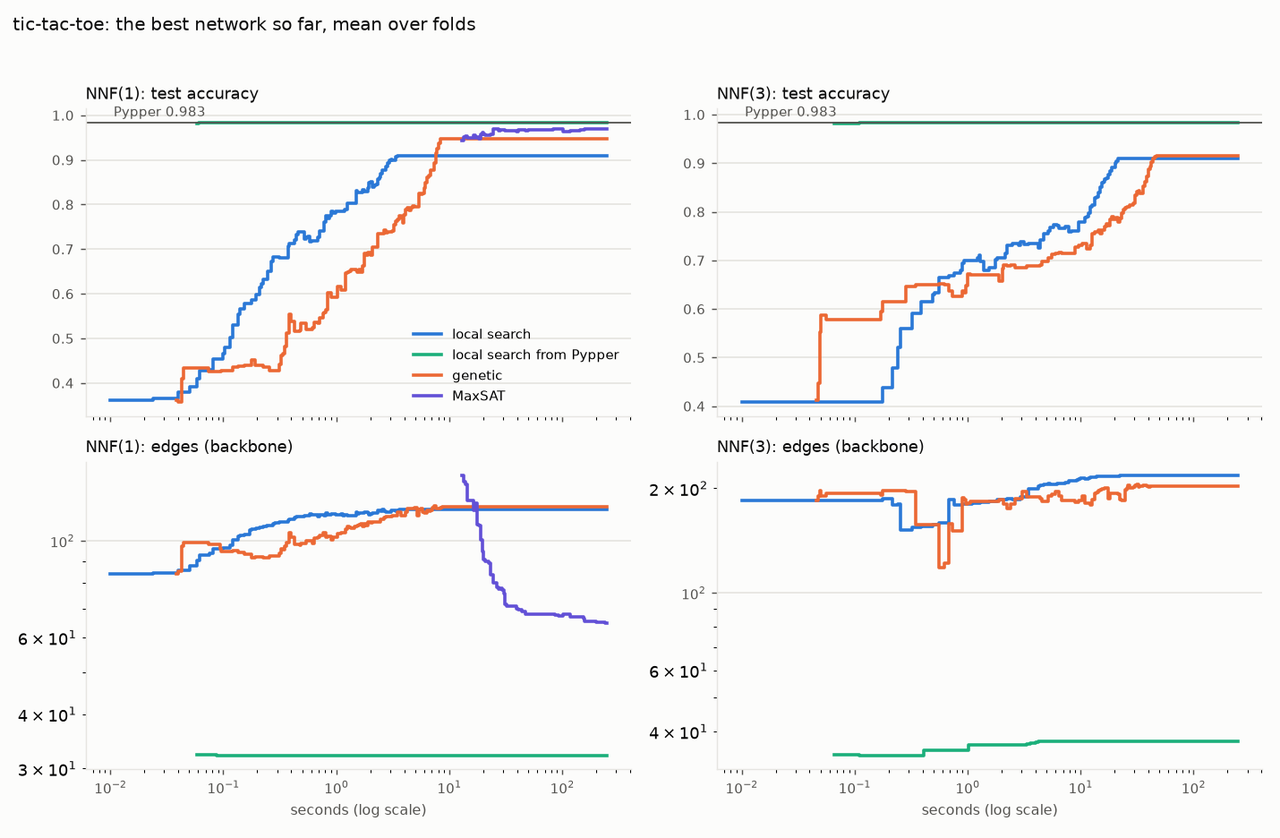
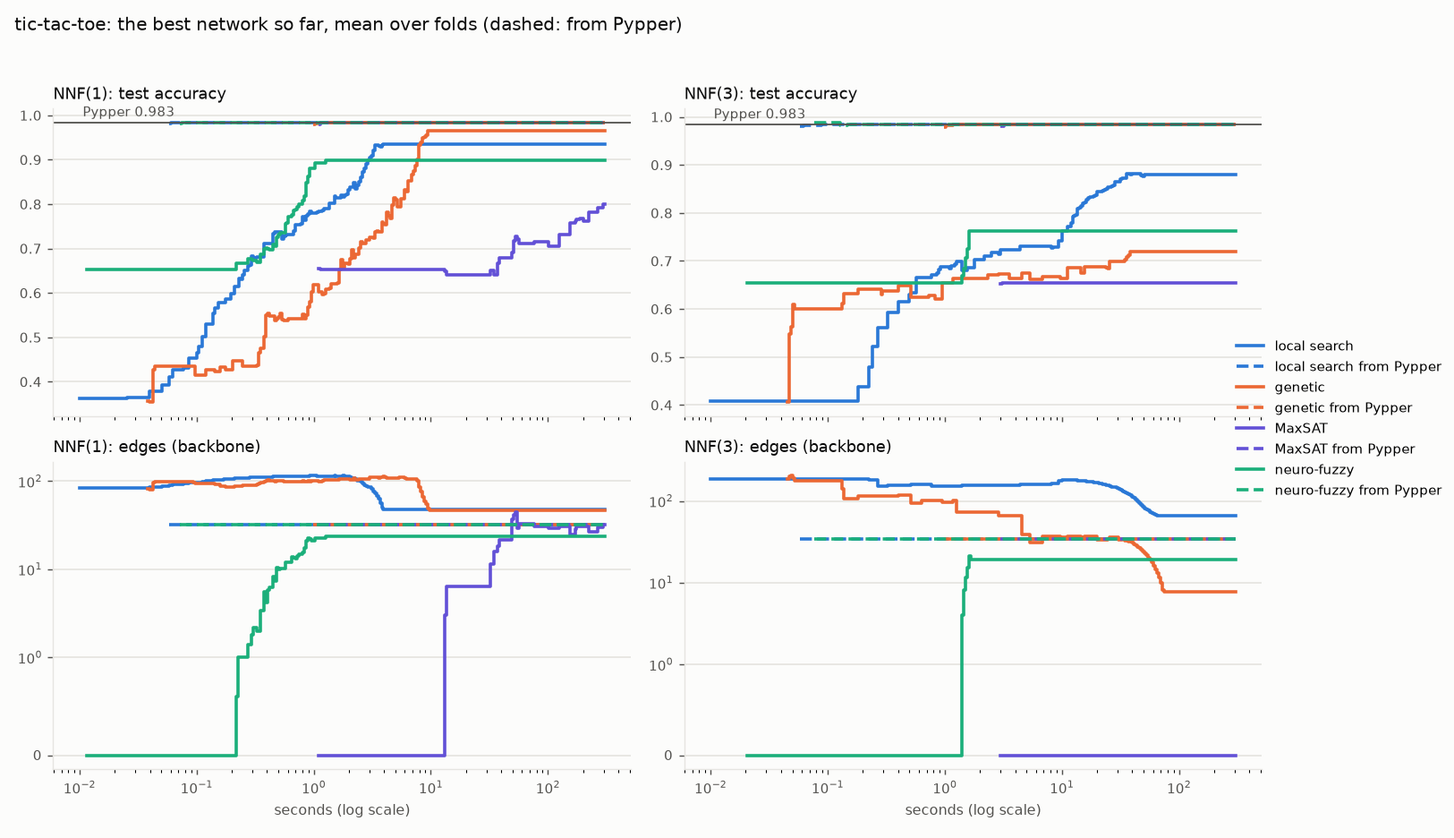
Deep rule networks: results of the full run; time-out (k/n) and --report-only
The report of the full run on 6841058 (parts 1-3) with its plots; the
plots of the old part 2 datasets are gone. A pair that timed out on some
folds while others finished reads "time-out (k/n)": k of the n folds
that ran failed (the counts from the cache, without stop_on_timeout);
the note says how many were skipped. --report-only writes the report and
plots from the cache, fitting nothing.

diff --git a/demos/deep_rule_networks.py b/demos/deep_rule_networks.py
@@ -41,6 +41,8 @@ Run: `python demos/deep_rule_networks.py` with no arguments is the
 short time limits); `--full` runs everything (a few hours with
 ``--n-jobs 10``) and writes ``deep_rule_networks_report.md`` (plots in
 ``deep_rule_networks_plots/``). Needs the `experiments` and `sat` extras.
+``--report-only`` fits nothing: it writes the report and plots from what
+the cache holds (with ``--full``, of the full run).
 """
 
 from __future__ import annotations
@@ -226,6 +228,24 @@ NAME = "deep_rule_networks"
 PLOTS_DIR = os.path.join(HERE, f"{NAME}_plots")
 CACHE_DIR = os.path.join(HERE, f"_{NAME}_cache")
 N_JOBS = "1"
+#: `--report-only`: the tables from the cache, nothing fitted
+CACHED_ONLY = False
+#: (dataset, learner) -> (failed folds, folds run): what really ran, for the report -- with
+#: `stop_on_timeout` a timed-out pair's finished folds also read as time-outs
+RAN: Dict[Tuple[str, str], Tuple[int, int]] = {}
+
+
+def _run_cv(learners, datasets, **kw) -> pd.DataFrame:
+    """`run_cv` (only from the cache with `CACHED_ONLY`), noting in `RAN`
+    how many folds of each (dataset, learner) ran and how many of them
+    failed."""
+    res = run_cv(learners, datasets, cached_only=CACHED_ONLY, **kw)
+    raw = run_cv(learners, datasets, cached_only=True, stop_on_timeout=False,
+                 **{k: v for k, v in kw.items() if k not in ("n_jobs", "measure_fn")})
+    if len(raw):
+        for (ds, learner), rows in raw.groupby(["dataset", "learner"]):
+            RAN[(ds, learner)] = (int(rows["error"].notna().sum()), len(rows))
+    return res
 
 
 def _n_jobs():
@@ -237,7 +257,7 @@ def part1(quick: bool) -> pd.DataFrame:
     datasets = cat.select(names=QUICK_ARTIFICIAL) if quick else cat.select(tags="artificial")
     names = (["Pypper"] + [f"SAT {a}" for a in NNF] + ["MaxSAT NNF(1)"] + [f"local search {a}" for a in NNF]
              + [f"genetic {a}" for a in NNF] + [f"neuro-fuzzy {a}" for a in NNF])
-    return run_cv([Variant(n, quick) for n in names], datasets,
+    return _run_cv([Variant(n, quick) for n in names], datasets,
                   n_folds=QUICK_SEIP_FOLDS if quick else SEIP_FOLDS, fit_timeout=FIT_TIMEOUT,
                   random_state=RANDOM_STATE, cache_dir=CACHE_DIR, n_jobs=_n_jobs())
 
@@ -256,9 +276,9 @@ def part2(quick: bool) -> pd.DataFrame:
                   random_state=RANDOM_STATE, cache_dir=CACHE_DIR, measure_fn=trace_curve, n_jobs=_n_jobs())
     full = [d for d in datasets if d.name not in NO_MAXSAT]
     small = [d for d in datasets if d.name in NO_MAXSAT]
-    parts = [run_cv([Variant(n, quick) for n in names], full, **common)] if full else []
+    parts = [_run_cv([Variant(n, quick) for n in names], full, **common)] if full else []
     if small:
-        parts.append(run_cv([Variant(n, quick) for n in without], small, **common))
+        parts.append(_run_cv([Variant(n, quick) for n in without], small, **common))
     return pd.concat(parts, ignore_index=True)
 
 
@@ -268,9 +288,9 @@ def part3(quick: bool) -> Tuple[pd.DataFrame, pd.DataFrame]:
     names = ["Pypper"] + [f"krk {learner}" for learner in KRK_LEARNERS]
     common = dict(n_folds=QUICK_TRACE_FOLDS if quick else TRACE_FOLDS, fit_timeout=FIT_TIMEOUT,
                   random_state=RANDOM_STATE, cache_dir=CACHE_DIR, n_jobs=_n_jobs())
-    res = run_cv([Variant(n, quick) for n in names], [krk], measure_fn=trace_curve, **common)
+    res = _run_cv([Variant(n, quick) for n in names], [krk], measure_fn=trace_curve, **common)
     relational = KRKIllegal(krk.n, krk.random_state, relations=True)
-    upper = run_cv([Variant("Pypper", quick)], [relational], **common)
+    upper = _run_cv([Variant("Pypper", quick)], [relational], **common)
     return res, upper
 
 
@@ -280,8 +300,14 @@ COLORS = {"local search": "#2a78d6", "genetic": "#eb6834", "MaxSAT": "#6250d6", 
 INK, INK2, GRID, SURF = "#0b0b0b", "#52514e", "#e6e5e1", "#fcfcfb"
 
 
-def _pct(v) -> str:
-    return "time-out" if v is None or (isinstance(v, float) and np.isnan(v)) else f"{100 * v:.2f}"
+def _pct(v, dataset: str = None, learner: str = None) -> str:
+    """An accuracy in %; a failure as ``time-out``, or ``time-out (k/n)``
+    when only k of the n folds that ran failed (the others finished: with
+    parallel fits, those already running when a fold timed out)."""
+    if not (v is None or (isinstance(v, float) and np.isnan(v))):
+        return f"{100 * v:.2f}"
+    failed, ran = RAN.get((dataset, learner), (0, 0))
+    return f"time-out ({failed}/{ran})" if 0 < failed < ran else "time-out"
 
 
 def _accuracy_by_dataset(res: pd.DataFrame, names: List[str]) -> pd.DataFrame:
@@ -307,10 +333,14 @@ def _failure_note(res: pd.DataFrame, rename=lambda n: n) -> List[str]:
     folds = res.groupby(["dataset", "learner"]).size()
     by_learner: Dict[str, List[str]] = {}
     for (ds, learner), k in failed.items():
-        by_learner.setdefault(rename(learner), []).append(f"{ds} ({k}/{folds[(ds, learner)]})")
-    return ["Time-outs (failed folds / folds; the fit cap of " + f"{FIT_TIMEOUT:.0f} s, or DeepSAT "
-            "finding no network within its own limit): "
-            + "; ".join(f"{n}: {', '.join(sorted(v))}" for n, v in sorted(by_learner.items())) + ".\n"]
+        bad, ran = RAN.get((ds, learner), (k, folds[(ds, learner)]))
+        skipped = folds[(ds, learner)] - ran
+        by_learner.setdefault(rename(learner), []).append(
+            f"{ds} ({bad}/{ran}" + (f", {skipped} skipped" if skipped else "") + ")")
+    return ["Time-outs (failed folds / folds run; the fit cap of " + f"{FIT_TIMEOUT:.0f} s, or DeepSAT "
+            "finding no network within its own limit; after a time-out the folds not yet started are "
+            "skipped): " + "; ".join(f"{n}: {', '.join(sorted(v))}" for n, v in sorted(by_learner.items()))
+            + ".\n"]
 
 
 def _part1_section(res: pd.DataFrame, quick: bool) -> List[str]:
@@ -336,12 +366,12 @@ def _part1_section(res: pd.DataFrame, quick: bool) -> List[str]:
         for name, who in cols:
             v = acc.loc[ds, name] if who == "ours" else paper.loc[seed, name]
             v = None if v is None or (isinstance(v, float) and np.isnan(v)) else float(v)
-            cells.append(_pct(v))
+            cells.append(_pct(v, ds, name) if who == "ours" else _pct(v))
             if v is not None:
                 sums.setdefault(f"{name}|{who}", []).append(v)
         for name in ("MaxSAT NNF(1)", "Pypper"):
             v = acc.loc[ds, name]
-            cells.append(_pct(v))
+            cells.append(_pct(v, ds, name))
             if not np.isnan(v):
                 sums.setdefault(f"{name}|ours", []).append(v)
         L.append(f"| {ds} | " + " | ".join(cells) + " |")
@@ -458,7 +488,7 @@ def _part2_section(res: pd.DataFrame, quick: bool) -> List[str]:
           "| dataset | " + " | ".join(n.replace("traced ", "") for n in names) + " |",
           "|---|" + "--:|" * len(names)]
     for ds in acc.index:
-        L.append(f"| {ds} | " + " | ".join(f"{_pct(acc.loc[ds, n])} ({times.loc[ds, n]:.0f} s)" for n in names)
+        L.append(f"| {ds} | " + " | ".join(f"{_pct(acc.loc[ds, n], ds, n)} ({times.loc[ds, n]:.0f} s)" for n in names)
                  + " |")
     if NO_MAXSAT and not quick:
         L.append(f"MaxSAT is not run on {', '.join(NO_MAXSAT)}: its formula would have tens of millions of "
@@ -489,7 +519,7 @@ def _part3_section(res: pd.DataFrame, upper: pd.DataFrame, quick: bool) -> List[
           "| learner | accuracy | edges | seconds |", "|---|--:|--:|--:|"]
     for n in names:
         e = "" if n == "Pypper" or np.isnan(edges.get(n, np.nan)) else f"{edges[n]:.0f}"
-        L.append(f"| {n.replace('krk ', '')} | {_pct(acc.loc[krk, n]) if krk in acc.index else '-'} | {e} | "
+        L.append(f"| {n.replace('krk ', '')} | {_pct(acc.loc[krk, n], krk, n) if krk in acc.index else '-'} | {e} | "
                  f"{times.loc[krk, n]:.0f} |" if krk in times.index else f"| {n} | - | | |")
     L.append(f"| Pypper with relations | {_pct(bound)} | | |")
     return L + [""] + _failure_note(res, lambda n: n.replace("krk ", ""))
@@ -524,7 +554,9 @@ and from Pypper, lambda = {LAMBDA:g}, each with {KRK_SECONDS} s (`max_seconds`, 
 generations unbounded). No MaxSAT: the formula would have millions of variables.
 
 Each fit is capped at {FIT_TIMEOUT:.0f} s; a time-out drops the learner's whole
-cross-validation on that dataset. Times are wall-clock.
+cross-validation on that dataset (the folds not yet started are skipped; `time-out (k/n)`:
+k of the n folds that ran failed, the others -- already running -- finished). Times are
+wall-clock.
 """
 
 
@@ -556,6 +588,9 @@ if __name__ == "__main__":
     parser.add_argument("--n-jobs", default="1",
                         help="fits to run at the same time (default 1); capped at the available cores "
                              "unless given as 'N!'")
+    parser.add_argument("--report-only", action="store_true",
+                        help="fit nothing: the report and plots from what the cache holds")
     args = parser.parse_args()
     N_JOBS = args.n_jobs
+    CACHED_ONLY = args.report_only
     main(quick=not args.full)

diff --git a/demos/deep_rule_networks_report.md b/demos/deep_rule_networks_report.md
@@ -7,74 +7,113 @@ al. (catalog tag `artificial`; all 1,024 combinations of ten Boolean features, l
 random deep NNF), stratified 10-fold cross-validation. The Boolean columns become
 `x` and `not x`, the features and negations the SAT paper's networks take. Architectures as
 in the paper: NNF(1) `[20]`, NNF(3) `[32, 8, 2]`, NNF(5) `[32, 16, 8, 4, 2]`,
-first layer AND, output OR. Learners: `DeepSAT` (plain SAT, an exact fit; Glucose 4),
+first layer AND, output OR, the output learning the formula's class (`target_class=True`,
+as the papers' networks do). Learners: `DeepSAT` (plain SAT, an exact fit; Glucose 4),
 `DeepLocalSearch` (Beck's stochastic hill climbing, consistent moves, random start),
+`DeepGenetic` (the memetic algorithm, node-wise crossover, random start), `DeepNeuroFuzzy`
+(gradient descent on the fuzzy relaxation, random binarization, random start),
 `DeepSAT(minimize="weights")` on NNF(1) with 60 s (the smallest exact fit found
 by then), Pypper.
 
-Part 2: tic-tac-toe, monks-problems-2, car-binary, artificial-nnf-24, kr-vs-kp, stratified 5-fold. NNF(1) and NNF(3);
-local search (random start, and started from Pypper's rules, `RuleSetInit(Pypper())`),
-the genetic algorithm (`DeepGenetic`, node-wise crossover), MaxSAT (`DeepSAT(minimize=
-"weights")`, 300 s), all with `trace=True`; Pypper as the reference.
+Part 2: tic-tac-toe, kr-vs-kp, vote, mushroom, breast-cancer, SPECT, parity-4-of-10, stratified
+5-fold (parity-4-of-10: the parity of four of ten Boolean features, all 1,024 rows).
+NNF(1) and NNF(3); local search, the genetic algorithm, MaxSAT (`DeepSAT(minimize="weights")`
+with soft examples, 300 s) and `DeepNeuroFuzzy`, each from a random start and
+from Pypper's rules (`RuleSetInit(Pypper())`), all minimizing the training errors plus
+lambda = 1 per edge (`size_penalty`), with `trace=True`; Pypper as the reference.
+Local search, the genetic algorithm and `DeepNeuroFuzzy` stop after 900 s at the
+latest (`max_seconds`), with their best network so far.
+
+Part 3: KRK illegality, 1000 positions (coordinates only), stratified 5-fold,
+network `[128, 16, 4]`; local search, the genetic algorithm and `DeepNeuroFuzzy`, random
+and from Pypper, lambda = 1, each with 1500 s (`max_seconds`, epochs and
+generations unbounded). No MaxSAT: the formula would have millions of variables.
 
 Each fit is capped at 1800 s; a time-out drops the learner's whole
-cross-validation on that dataset. Times are wall-clock.
+cross-validation on that dataset (the folds not yet started are skipped; `time-out (k/n)`:
+k of the n folds that ran failed, the others -- already running -- finished). Times are
+wall-clock.
 
 
 ## Part 1: the SAT paper's artificial datasets
 
 Accuracy (%) per dataset, ours next to the paper's Table 1 (its SAT and stochastic hill climbing, SHS). Our folds are not the paper's (both stratified 10-fold), so single datasets can differ by chance; the means are the comparison.
 
-| dataset | SAT NNF(1) (ours) | SAT NNF(1) (paper) | local search NNF(1) (ours) | SHS NNF(1) (paper) | SAT NNF(3) (ours) | SAT NNF(3) (paper) | local search NNF(3) (ours) | SHS NNF(3) (paper) | SAT NNF(5) (ours) | SAT NNF(5) (paper) | local search NNF(5) (ours) | SHS NNF(5) (paper) | MaxSAT NNF(1) | Pypper |
-|---|--:|--:|--:|--:|--:|--:|--:|--:|--:|--:|--:|--:|--:|--:|
-| artificial-nnf-107 | time-out | 99.51 | 70.12 | 86.43 | time-out | 97.95 | 93.75 | 87.30 | time-out | 97.55 | 89.74 | 89.65 | time-out | 93.65 |
-| artificial-nnf-112 | 97.65 | 98.63 | 52.23 | 91.89 | 97.66 | 98.34 | 83.18 | 92.48 | 97.66 | 98.24 | 94.04 | 93.46 | 99.02 | 96.09 |
-| artificial-nnf-118 | 98.24 | 99.12 | 71.49 | 94.34 | 97.17 | 98.24 | 95.31 | 94.14 | time-out | 99.12 | 95.60 | 96.88 | 99.61 | 97.26 |
-| artificial-nnf-16 | 98.92 | 99.02 | 60.28 | 96.29 | 98.92 | 98.04 | 85.24 | 97.07 | 98.92 | 97.65 | 97.46 | 96.39 | 99.12 | 98.24 |
-| artificial-nnf-19 | 100.00 | 100.00 | 71.39 | 97.46 | 100.00 | 100.00 | 99.80 | 99.02 | 100.00 | 100.00 | 99.22 | 100.00 | 100.00 | 100.00 |
-| artificial-nnf-24 | 98.54 | 99.32 | 66.21 | 91.60 | 99.61 | 98.83 | 91.12 | 90.43 | 99.61 | 98.83 | 92.18 | 90.53 | 99.81 | 95.02 |
-| artificial-nnf-36 | time-out | time-out | 64.27 | 90.43 | time-out | 97.75 | 93.17 | 92.09 | time-out | 96.48 | 93.85 | 88.28 | time-out | 93.27 |
-| artificial-nnf-44 | 98.15 | 99.02 | 58.70 | 93.26 | 98.34 | 97.85 | 84.77 | 95.51 | 98.34 | 98.25 | 96.10 | 96.29 | 99.12 | 97.95 |
-| artificial-nnf-5 | 98.04 | 99.80 | 76.59 | 95.31 | 98.34 | 98.73 | 98.24 | 98.63 | 98.53 | 98.83 | 98.73 | 95.80 | 100.00 | 98.63 |
-| artificial-nnf-53 | 100.00 | 99.71 | 67.17 | 97.75 | 100.00 | 98.92 | 98.83 | 98.05 | 100.00 | 98.73 | 98.53 | 98.05 | 100.00 | 99.02 |
-| artificial-nnf-57 | 99.02 | 99.61 | 62.01 | 96.39 | 98.92 | 99.32 | 90.07 | 97.36 | 99.02 | 99.61 | 98.24 | 98.24 | 99.71 | 99.61 |
-| artificial-nnf-60 | 98.24 | 99.22 | 57.54 | 92.09 | 97.95 | 98.24 | 95.50 | 94.53 | 98.14 | 97.36 | 95.80 | 94.43 | 100.00 | 97.95 |
-| artificial-nnf-65 | 98.92 | 99.81 | 69.53 | 94.14 | 98.92 | 99.80 | 95.60 | 96.88 | 98.92 | 99.32 | 95.41 | 98.54 | 100.00 | 99.80 |
-| artificial-nnf-68 | time-out | 99.12 | 74.70 | 96.19 | 99.12 | 97.17 | 92.38 | 94.43 | time-out | 98.05 | 91.89 | 92.48 | time-out | 92.97 |
-| artificial-nnf-69 | 98.34 | 98.24 | 61.33 | 91.99 | 98.24 | 97.27 | 96.68 | 96.58 | time-out | 97.76 | 96.39 | 95.51 | 98.73 | 97.08 |
-| artificial-nnf-70 | time-out | 99.12 | 70.60 | 92.29 | 98.53 | 97.66 | 89.45 | 90.62 | time-out | 98.15 | 90.72 | 90.14 | time-out | 91.50 |
-| artificial-nnf-81 | time-out | 99.51 | 65.23 | 88.57 | 97.26 | 97.26 | 93.84 | 91.31 | time-out | 98.83 | 93.94 | 90.04 | time-out | 95.40 |
-| artificial-nnf-82 | 100.00 | 99.90 | 64.25 | 97.17 | 100.00 | 99.90 | 96.47 | 99.80 | 100.00 | 99.90 | 99.90 | 99.41 | 100.00 | 100.00 |
-| artificial-nnf-85 | 100.00 | 100.00 | 75.49 | 97.36 | 100.00 | 99.90 | 99.51 | 99.80 | 100.00 | 99.71 | 99.80 | 100.00 | 100.00 | 100.00 |
-| artificial-nnf-89 | time-out | 99.80 | 65.54 | 96.29 | 98.83 | 99.22 | 90.63 | 94.34 | time-out | 99.02 | 91.60 | 89.26 | time-out | 91.01 |
-| **mean** | 98.86 | 99.39 | 66.23 | 93.86 | 98.77 | 98.52 | 93.18 | 95.02 | 99.10 | 98.57 | 95.46 | 94.67 | 99.65 | 96.72 |
+| dataset | SAT NNF(1) (ours) | SAT NNF(1) (paper) | local search NNF(1) (ours) | SHS NNF(1) (paper) | genetic NNF(1) (ours) | neuro-fuzzy NNF(1) (ours) | SAT NNF(3) (ours) | SAT NNF(3) (paper) | local search NNF(3) (ours) | SHS NNF(3) (paper) | genetic NNF(3) (ours) | neuro-fuzzy NNF(3) (ours) | SAT NNF(5) (ours) | SAT NNF(5) (paper) | local search NNF(5) (ours) | SHS NNF(5) (paper) | genetic NNF(5) (ours) | neuro-fuzzy NNF(5) (ours) | MaxSAT NNF(1) | Pypper |
+|---|--:|--:|--:|--:|--:|--:|--:|--:|--:|--:|--:|--:|--:|--:|--:|--:|--:|--:|--:|--:|
+| artificial-nnf-107 | 99.02 | 99.51 | 74.06 | 86.43 | 92.58 | 92.00 | time-out (1/10) | 97.95 | 93.45 | 87.30 | 92.49 | 99.12 | time-out (4/10) | 97.55 | 92.87 | 89.65 | 94.05 | 93.05 | 99.80 | 93.65 |
+| artificial-nnf-112 | 98.53 | 98.63 | 94.14 | 91.89 | 93.85 | 93.95 | time-out (1/10) | 98.34 | 95.12 | 92.48 | 93.36 | 98.34 | time-out (5/10) | 98.24 | 93.65 | 93.46 | 94.34 | 87.90 | 99.71 | 96.09 |
+| artificial-nnf-118 | 98.24 | 99.12 | 95.99 | 94.34 | 96.68 | 98.14 | 98.34 | 98.24 | 97.27 | 94.14 | 98.24 | 98.73 | 98.34 | 99.12 | 97.07 | 96.88 | 97.95 | 94.22 | 99.51 | 97.26 |
+| artificial-nnf-16 | 98.34 | 99.02 | 97.26 | 96.29 | 97.75 | 94.91 | 99.02 | 98.04 | 97.27 | 97.07 | 97.66 | 99.12 | time-out (1/10) | 97.65 | 98.34 | 96.39 | 96.78 | 93.73 | 99.61 | 98.24 |
+| artificial-nnf-19 | 99.80 | 100.00 | 66.11 | 97.46 | 98.73 | 100.00 | 99.71 | 100.00 | 99.90 | 99.02 | 100.00 | 100.00 | 99.71 | 100.00 | 99.61 | 100.00 | 100.00 | 98.06 | 100.00 | 100.00 |
+| artificial-nnf-24 | 98.53 | 99.32 | 87.31 | 91.60 | 94.92 | 95.79 | 98.63 | 98.83 | 95.12 | 90.43 | 92.78 | 99.22 | 98.63 | 98.83 | 94.73 | 90.53 | 93.35 | 94.16 | 99.81 | 95.02 |
+| artificial-nnf-36 | time-out | time-out | 79.87 | 90.43 | 93.36 | 94.23 | time-out (3/4) | 97.75 | 92.38 | 92.09 | 92.77 | 97.46 | time-out | 96.48 | 93.07 | 88.28 | 91.79 | 95.12 | time-out (8/10) | 93.27 |
+| artificial-nnf-44 | 98.43 | 99.02 | 95.03 | 93.26 | 95.81 | 86.68 | 98.44 | 97.85 | 96.00 | 95.51 | 96.39 | 99.12 | time-out (3/10) | 98.25 | 96.39 | 96.29 | 97.17 | 90.05 | 99.61 | 97.95 |
+| artificial-nnf-5 | 98.04 | 99.80 | 76.59 | 95.31 | 96.78 | 99.22 | 98.34 | 98.73 | 98.24 | 98.63 | 97.56 | 100.00 | 98.53 | 98.83 | 98.73 | 95.80 | 97.75 | 94.91 | 100.00 | 98.63 |
+| artificial-nnf-53 | 99.41 | 99.71 | 78.91 | 97.75 | 98.53 | 98.05 | 99.41 | 98.92 | 98.93 | 98.05 | 98.05 | 98.05 | 99.41 | 98.73 | 97.75 | 98.05 | 98.14 | 90.59 | 100.00 | 99.02 |
+| artificial-nnf-57 | 99.61 | 99.61 | 95.53 | 96.39 | 98.44 | 97.18 | 99.61 | 99.32 | 99.41 | 97.36 | 99.41 | 99.71 | 99.61 | 99.61 | 99.41 | 98.24 | 99.51 | 94.95 | 99.71 | 99.61 |
+| artificial-nnf-60 | 99.22 | 99.22 | 93.85 | 92.09 | 95.80 | 93.55 | 98.83 | 98.24 | 95.41 | 94.53 | 94.43 | 98.44 | 98.83 | 97.36 | 95.31 | 94.43 | 94.34 | 90.24 | 99.42 | 97.95 |
+| artificial-nnf-65 | 99.41 | 99.81 | 73.34 | 94.14 | 97.36 | 100.00 | 98.73 | 99.80 | 97.95 | 96.88 | 98.25 | 100.00 | 98.73 | 99.32 | 97.27 | 98.54 | 98.54 | 99.51 | 100.00 | 99.80 |
+| artificial-nnf-68 | 99.32 | 99.12 | 80.75 | 96.19 | 97.07 | 93.86 | 98.24 | 97.17 | 96.78 | 94.43 | 97.17 | 97.17 | 98.24 | 98.05 | 95.70 | 92.48 | 96.78 | 97.36 | 99.41 | 92.97 |
+| artificial-nnf-69 | 97.85 | 98.24 | 75.58 | 91.99 | 96.09 | 97.75 | 98.24 | 97.27 | 96.19 | 96.58 | 96.97 | 98.24 | 98.24 | 97.76 | 95.90 | 95.51 | 95.41 | 90.99 | 98.63 | 97.08 |
+| artificial-nnf-70 | 98.73 | 99.12 | 91.90 | 92.29 | 94.73 | 81.54 | 97.85 | 97.66 | 93.75 | 90.62 | 92.09 | 97.95 | time-out | 98.15 | 91.81 | 90.14 | 94.23 | 86.12 | 99.51 | 91.50 |
+| artificial-nnf-81 | 98.63 | 99.51 | 77.83 | 88.57 | 92.97 | 95.12 | 97.56 | 97.26 | 95.99 | 91.31 | 93.07 | 96.39 | time-out (4/10) | 98.83 | 94.82 | 90.04 | 93.45 | 92.47 | 99.41 | 95.40 |
+| artificial-nnf-82 | 100.00 | 99.90 | 94.25 | 97.17 | 99.80 | 100.00 | 100.00 | 99.90 | 99.51 | 99.80 | 100.00 | 100.00 | 100.00 | 99.90 | 100.00 | 99.41 | 100.00 | 97.16 | 100.00 | 100.00 |
+| artificial-nnf-85 | 100.00 | 100.00 | 77.04 | 97.36 | 98.43 | 100.00 | 100.00 | 99.90 | 100.00 | 99.80 | 100.00 | 100.00 | 100.00 | 99.71 | 99.80 | 100.00 | 99.61 | 100.00 | 100.00 | 100.00 |
+| artificial-nnf-89 | 98.73 | 99.80 | 83.59 | 96.29 | 97.75 | 75.59 | time-out (1/10) | 99.22 | 96.68 | 94.34 | 95.70 | 99.22 | time-out (8/10) | 99.02 | 96.48 | 89.26 | 93.36 | 93.45 | 100.00 | 91.01 |
+| **mean** | 98.94 | 99.39 | 84.45 | 93.86 | 96.37 | 94.38 | 98.81 | 98.52 | 96.77 | 95.02 | 96.32 | 98.81 | 99.02 | 98.57 | 96.44 | 94.67 | 96.33 | 93.70 | 99.69 | 96.72 |
 
-Mean fit time (s): Pypper 0.1, SAT NNF(1) 504.4, SAT NNF(3) 217.2, SAT NNF(5) 407.5, MaxSAT NNF(1) 55.2, local search NNF(1) 0.8, local search NNF(3) 5.0, local search NNF(5) 13.8.
+Mean fit time (s): Pypper 0.1, SAT NNF(1) 90.5, SAT NNF(3) 213.1, SAT NNF(5) 410.0, MaxSAT NNF(1) 52.4, local search NNF(1) 0.6, local search NNF(3) 4.2, local search NNF(5) 10.7, genetic NNF(1) 2.6, genetic NNF(3) 12.5, genetic NNF(5) 29.9, neuro-fuzzy NNF(1) 0.6, neuro-fuzzy NNF(3) 1.3, neuro-fuzzy NNF(5) 1.8.
 
-Time-outs (failed folds / folds; the fit cap of 1800 s, or DeepSAT finding no network within its own limit): MaxSAT NNF(1): artificial-nnf-107 (10/10), artificial-nnf-36 (10/10), artificial-nnf-68 (10/10), artificial-nnf-70 (10/10), artificial-nnf-81 (6/10), artificial-nnf-89 (10/10); SAT NNF(1): artificial-nnf-107 (10/10), artificial-nnf-36 (10/10), artificial-nnf-68 (10/10), artificial-nnf-70 (10/10), artificial-nnf-81 (10/10), artificial-nnf-89 (10/10); SAT NNF(3): artificial-nnf-107 (10/10), artificial-nnf-36 (10/10); SAT NNF(5): artificial-nnf-107 (10/10), artificial-nnf-118 (10/10), artificial-nnf-36 (10/10), artificial-nnf-68 (10/10), artificial-nnf-69 (10/10), artificial-nnf-70 (10/10), artificial-nnf-81 (10/10), artificial-nnf-89 (10/10).
+Time-outs (failed folds / folds run; the fit cap of 1800 s, or DeepSAT finding no network within its own limit; after a time-out the folds not yet started are skipped): MaxSAT NNF(1): artificial-nnf-36 (8/10); SAT NNF(1): artificial-nnf-36 (4/4, 6 skipped); SAT NNF(3): artificial-nnf-107 (1/10), artificial-nnf-112 (1/10), artificial-nnf-36 (3/4, 6 skipped), artificial-nnf-89 (1/10); SAT NNF(5): artificial-nnf-107 (4/10), artificial-nnf-112 (5/10), artificial-nnf-16 (1/10), artificial-nnf-36 (4/4, 6 skipped), artificial-nnf-44 (3/10), artificial-nnf-70 (10/10), artificial-nnf-81 (4/10), artificial-nnf-89 (8/10).
 
 ## Part 2: the learners over time
 
-Each curve is the test accuracy (top) and the size (bottom: edges of the network's backbone, `DeepModel.pruned`) of the best network found so far, against the seconds of the fit, averaged over the folds where a network exists by then (shown once that is at least half of all folds; a failed fold never has one). Local search and the genetic algorithm improve the training error; MaxSAT starts from an exact fit and makes it smaller.
+Each curve is the test accuracy (top) and the size (bottom: edges of the network's backbone, `DeepModel.pruned`) of the best network found so far, against the seconds of the fit, averaged over the folds where a network exists by then (shown once that is at least half of all folds; a failed fold never has one). All four learners minimize the training errors plus 1 per edge; solid from a random start, dashed from Pypper's rules.
 
 ![tic-tac-toe](deep_rule_networks_plots/deep_rule_networks_tic-tac-toe.png)
 
-![monks-problems-2](deep_rule_networks_plots/deep_rule_networks_monks-problems-2.png)
-
-![car-binary](deep_rule_networks_plots/deep_rule_networks_car-binary.png)
-
-![artificial-nnf-24](deep_rule_networks_plots/deep_rule_networks_artificial-nnf-24.png)
-
 ![kr-vs-kp](deep_rule_networks_plots/deep_rule_networks_kr-vs-kp.png)
+
+![vote](deep_rule_networks_plots/deep_rule_networks_vote.png)
+
+![breast-cancer](deep_rule_networks_plots/deep_rule_networks_breast-cancer.png)
+
+![SPECT](deep_rule_networks_plots/deep_rule_networks_SPECT.png)
+
+![parity-4-of-10](deep_rule_networks_plots/deep_rule_networks_parity-4-of-10.png)
+
+![mushroom](deep_rule_networks_plots/deep_rule_networks_mushroom.png)
 
 Final test accuracy (%) and mean fit time (s):
 
-| dataset | Pypper | local search NNF(1) | local search from Pypper NNF(1) | genetic NNF(1) | MaxSAT NNF(1) | local search NNF(3) | local search from Pypper NNF(3) | genetic NNF(3) | MaxSAT NNF(3) |
-|---|--:|--:|--:|--:|--:|--:|--:|--:|--:|
-| artificial-nnf-24 | 94.73 (0 s) | 62.60 (1 s) | 95.21 (1 s) | 90.43 (3 s) | 99.61 (301 s) | 92.09 (6 s) | 95.41 (3 s) | 90.92 (18 s) | time-out (308 s) |
-| car-binary | 97.11 (0 s) | 91.84 (4 s) | 96.82 (2 s) | 91.61 (7 s) | time-out (304 s) | 95.54 (15 s) | 96.82 (9 s) | 96.24 (29 s) | time-out (321 s) |
-| kr-vs-kp | 98.97 (0 s) | 53.32 (3 s) | 99.03 (5 s) | 97.09 (10 s) | time-out (304 s) | 97.25 (38 s) | 99.06 (20 s) | 97.44 (49 s) | time-out (308 s) |
-| monks-problems-2 | 68.72 (0 s) | 70.70 (1 s) | 75.71 (1 s) | 68.89 (4 s) | 99.17 (301 s) | 78.88 (6 s) | 78.53 (5 s) | 81.69 (22 s) | 98.67 (303 s) |
-| tic-tac-toe | 98.33 (0 s) | 90.92 (3 s) | 98.33 (1 s) | 94.78 (8 s) | 96.87 (301 s) | 90.92 (20 s) | 98.33 (5 s) | 91.44 (43 s) | time-out (316 s) |
+| dataset | Pypper | local search NNF(1) | local search from Pypper NNF(1) | genetic NNF(1) | genetic from Pypper NNF(1) | MaxSAT NNF(1) | MaxSAT from Pypper NNF(1) | neuro-fuzzy NNF(1) | neuro-fuzzy from Pypper NNF(1) | local search NNF(3) | local search from Pypper NNF(3) | genetic NNF(3) | genetic from Pypper NNF(3) | MaxSAT NNF(3) | MaxSAT from Pypper NNF(3) | neuro-fuzzy NNF(3) | neuro-fuzzy from Pypper NNF(3) |
+|---|--:|--:|--:|--:|--:|--:|--:|--:|--:|--:|--:|--:|--:|--:|--:|--:|--:|
+| SPECT | 79.80 (0 s) | 82.40 (1 s) | 80.92 (0 s) | 83.14 (5 s) | 83.13 (3 s) | 84.63 (300 s) | 83.14 (300 s) | 79.40 (0 s) | 80.91 (0 s) | 78.64 (4 s) | 80.92 (1 s) | 79.40 (8 s) | 80.53 (16 s) | 83.89 (301 s) | 82.75 (301 s) | 79.40 (0 s) | 80.91 (0 s) |
+| breast-cancer | 74.45 (0 s) | 68.55 (2 s) | 74.46 (1 s) | 68.52 (11 s) | 74.46 (8 s) | 70.30 (300 s) | 70.65 (300 s) | 72.73 (0 s) | 74.46 (0 s) | 70.31 (10 s) | 73.41 (3 s) | 70.28 (32 s) | 73.42 (42 s) | 71.68 (301 s) | 72.38 (301 s) | 70.28 (1 s) | 74.46 (1 s) |
+| kr-vs-kp | 98.97 (0 s) | 95.43 (18 s) | 99.00 (5 s) | 97.50 (23 s) | 99.00 (10 s) | 93.90 (304 s) | 98.97 (304 s) | 97.00 (4 s) | 98.59 (4 s) | 97.28 (227 s) | 98.94 (20 s) | 96.18 (203 s) | 99.00 (28 s) | 75.57 (307 s) | 98.97 (306 s) | 96.87 (7 s) | 98.53 (7 s) |
+| mushroom | 99.96 (0 s) | 99.83 (313 s) | 99.96 (40 s) | 99.84 (280 s) | 99.96 (34 s) | time-out (nan s) | time-out (nan s) | 99.85 (22 s) | 99.96 (22 s) | 99.69 (903 s) | 99.96 (110 s) | 99.53 (885 s) | 99.96 (83 s) | time-out (nan s) | time-out (nan s) | 99.45 (36 s) | 99.96 (36 s) |
+| parity-4-of-10 | 62.39 (0 s) | 95.51 (1 s) | 95.12 (0 s) | 87.80 (3 s) | 95.12 (3 s) | 100.00 (300 s) | 99.22 (300 s) | 49.80 (1 s) | 80.77 (1 s) | 100.00 (17 s) | 100.00 (4 s) | 76.73 (17 s) | 100.00 (11 s) | 78.49 (310 s) | 99.80 (301 s) | 49.80 (1 s) | 66.40 (1 s) |
+| tic-tac-toe | 98.33 (0 s) | 93.43 (4 s) | 98.33 (1 s) | 96.45 (9 s) | 98.33 (4 s) | 79.96 (301 s) | 98.33 (301 s) | 89.86 (1 s) | 98.33 (1 s) | 88.00 (47 s) | 98.33 (5 s) | 71.94 (29 s) | 98.33 (15 s) | 65.34 (314 s) | 98.33 (302 s) | 76.30 (2 s) | 98.33 (2 s) |
+| vote | 95.86 (0 s) | 95.17 (1 s) | 95.86 (0 s) | 94.71 (3 s) | 95.86 (2 s) | 95.17 (266 s) | 95.17 (300 s) | 95.63 (0 s) | 95.17 (0 s) | 94.71 (11 s) | 95.86 (1 s) | 95.40 (15 s) | 95.63 (9 s) | 95.17 (301 s) | 95.63 (301 s) | 82.07 (1 s) | 95.17 (1 s) |
+MaxSAT is not run on mushroom: its formula would have tens of millions of clauses.
 
-Time-outs (failed folds / folds; the fit cap of 1800 s, or DeepSAT finding no network within its own limit): MaxSAT NNF(1): car-binary (2/5), kr-vs-kp (3/5); MaxSAT NNF(3): artificial-nnf-24 (5/5), car-binary (5/5), kr-vs-kp (5/5), tic-tac-toe (5/5).
+
+## Part 3: KRK illegality
+
+krk-illegal-1000: the coordinates only, stratified 5-fold; network `[128, 16, 4]`, 1500 s per fit, errors plus 1 per edge. Reference lines: Pypper on the coordinates, and Pypper with the 24 relations given (`relations=True`), what the background knowledge allows.
+
+![krk-illegal-1000](deep_rule_networks_plots/deep_rule_networks_krk-illegal-1000.png)
+
+Final test accuracy (%), backbone edges and mean fit time (s):
+
+| learner | accuracy | edges | seconds |
+|---|--:|--:|--:|
+| Pypper | 79.20 |  | 0 |
+| local search | 32.00 | 953 | 1500 |
+| local search from Pypper | 79.20 | 40 | 1500 |
+| genetic | 65.50 | 445 | 1500 |
+| genetic from Pypper | 79.20 | 40 | 1500 |
+| neuro-fuzzy | 68.00 | 0 | 1500 |
+| neuro-fuzzy from Pypper | 85.80 | 45 | 1500 |
+| Pypper with relations | 99.80 | | |
